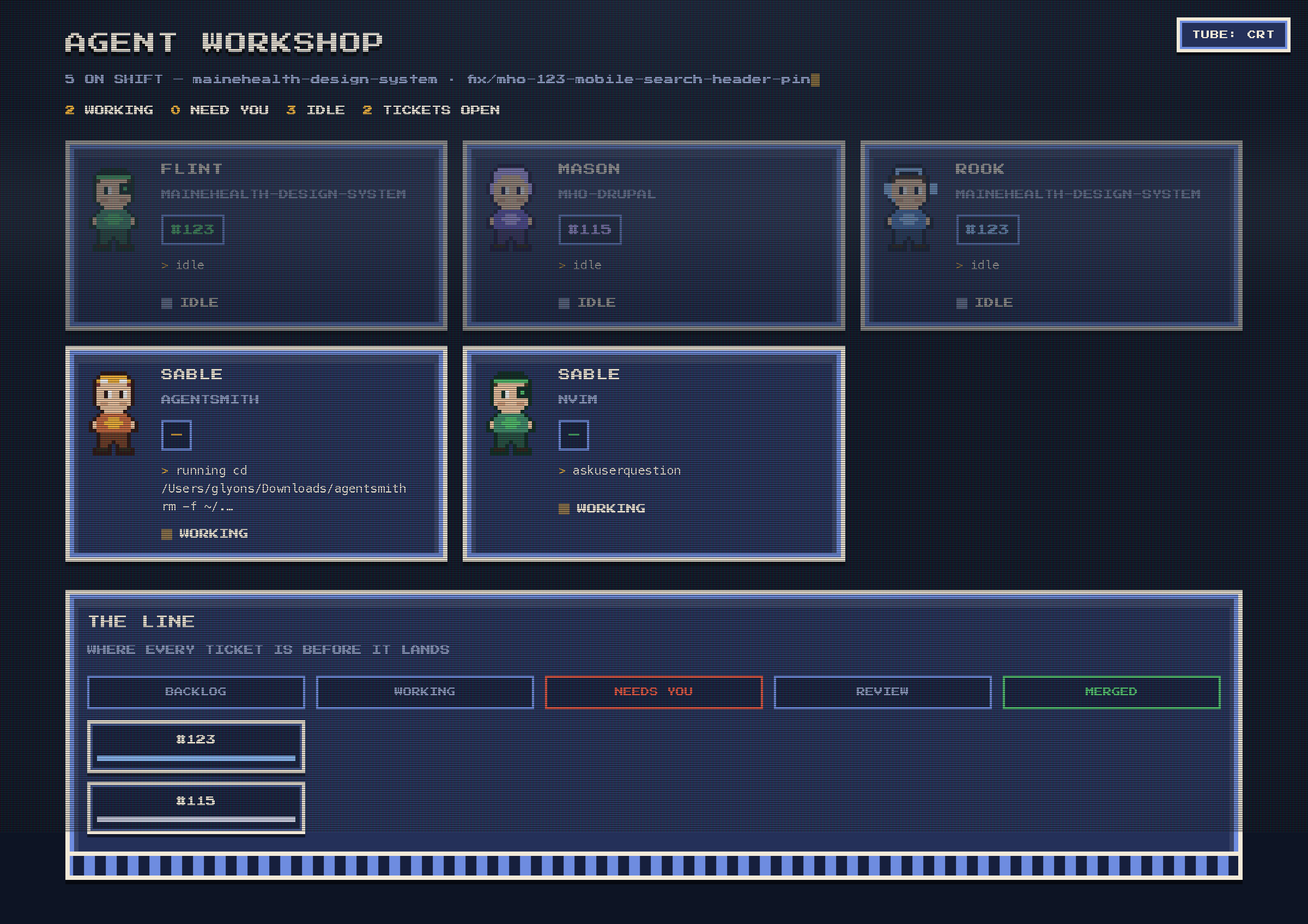
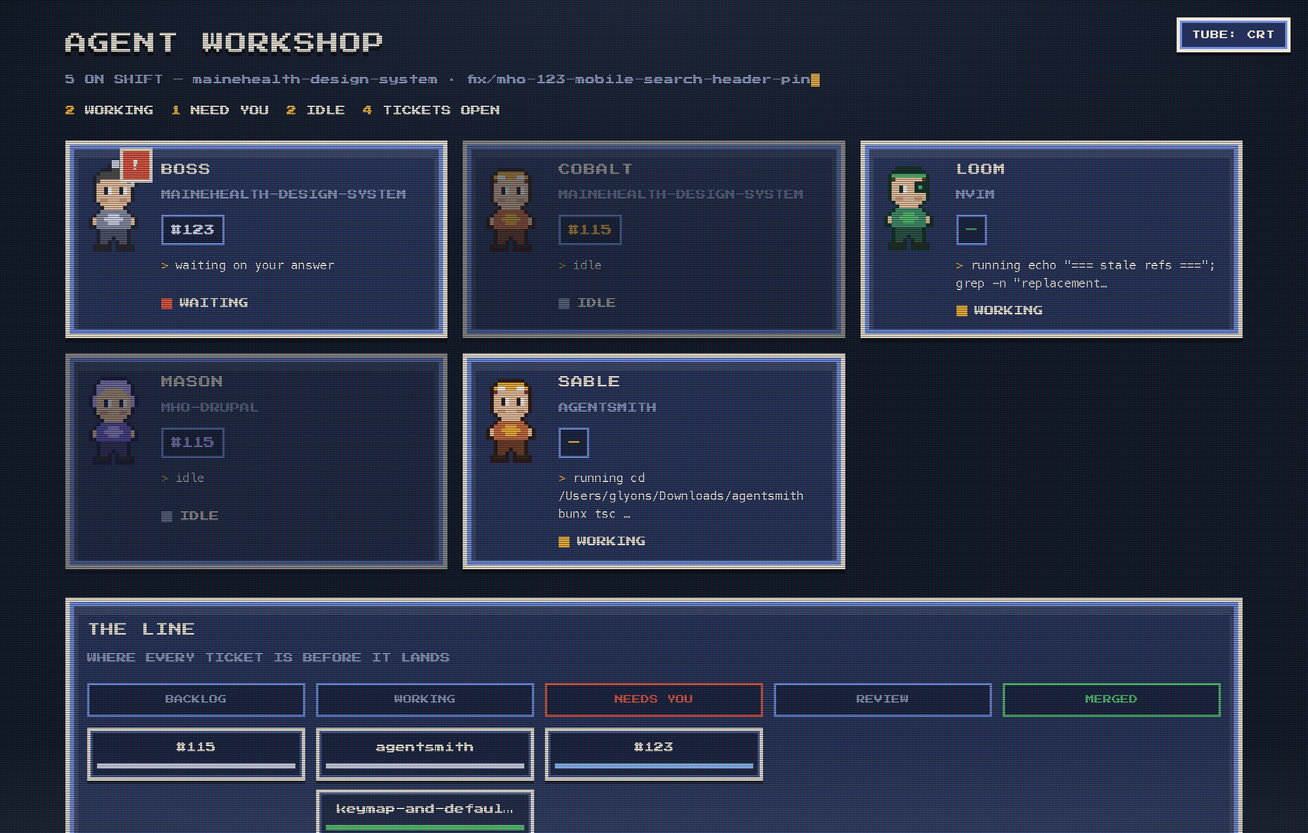
feat: click a card to jump to its Ghostty terminal; pause and rename agents
- ghostty.ts: focusSession() writes a one-shot title marker to the session's tty
  and focuses that exact Ghostty terminal (falls back to matching cwd); via
  Ghostty's AppleScript dictionary (no Accessibility permission needed).
  interruptSession() sends SIGINT to the session's pid (pause = interrupt the
  current turn, like Esc; session stays open).
- server: POST /action/{focus,pause,rename}; loadStatus with sessionId guard.
- ui: desks are clickable (focus); hover reveals rename (prompt) + pause (confirm)
  buttons; actions.ts posts to the server.
- overrides applied in readSnapshot so a rename persists across restarts.
- tests: overrides store.

Notes: precise focus + pause need the pid/tty the hooks capture; scanner-only
sessions fall back to cwd-level focus and can't be paused (the endpoint says so).

diff --git a/src/ghostty.ts b/src/ghostty.ts
@@ -1,0 +1,78 @@
+// OS actions on a real Claude session: focus its Ghostty terminal, or interrupt
+// it. macOS + Ghostty specific (uses Ghostty's AppleScript dictionary, which
+// works without Accessibility permission). Best-effort: every call resolves to a
+// {ok, error?} result and never throws.
+import { writeFile } from "node:fs/promises";
+import type { AgentStatus } from "./schema";
+
+export type ActionResult = { ok: boolean; error?: string };
+
+function delay(ms: number): Promise<void> {
+  return new Promise((r) => setTimeout(r, ms));
+}
+
+async function osa(script: string): Promise<string> {
+  const p = Bun.spawn(["osascript", "-e", script], { stdout: "pipe", stderr: "pipe" });
+  const out = await new Response(p.stdout).text();
+  await p.exited;
+  return out.trim();
+}
+
+// AppleScript string literal, escaping backslash and quote.
+function asStr(s: string): string {
+  return '"' + s.replace(/\\/g, "\\\\").replace(/"/g, '\\"') + '"';
+}
+
+function focusScript(match: string): string {
+  return `tell application "Ghostty"
+    repeat with w in windows
+      repeat with t in tabs of w
+        repeat with term in terminals of t
+          if ${match} then
+            focus term
+            activate
+            return "ok"
+          end if
+        end repeat
+      end repeat
+    end repeat
+    return "no"
+  end tell`;
+}
+
+let markerSeq = 0;
+function newMarker(): string {
+  markerSeq = (markerSeq + 1) % 1e6;
+  return `AWF-${Date.now().toString(36)}-${markerSeq.toString(36)}`;
+}
+
+/** Focus the exact terminal for a session: write a one-shot title marker to its
+ *  tty and match on it (precise). Falls back to matching the working directory. */
+export async function focusSession(status: Pick<AgentStatus, "tty" | "cwd">): Promise<ActionResult> {
+  if (status.tty) {
+    const marker = newMarker();
+    try {
+      await writeFile(status.tty, `\x1b]2;${marker}\x07`); // OSC 2 = set window title
+      await delay(70);
+      const out = await osa(focusScript(`(name of term) contains ${asStr(marker)}`));
+      if (out === "ok") return { ok: true };
+    } catch { /* fall through to cwd match */ }
+  }
+  if (status.cwd) {
+    const out = await osa(focusScript(`(working directory of term) is ${asStr(status.cwd)}`));
+    if (out === "ok") return { ok: true };
+  }
+  return { ok: false, error: "could not find the terminal (is it still open?)" };
+}
+
+/** Interrupt the session's current turn — equivalent to pressing Esc/Ctrl-C once.
+ *  The session stays alive and waiting; resume by typing in it. */
+export function interruptSession(status: Pick<AgentStatus, "pid">): ActionResult {
+  if (!status.pid) return { ok: false, error: "no pid — run `bun run install-hooks` to enable pausing" };
+  try {
+    process.kill(status.pid, "SIGINT");
+    return { ok: true };
+  } catch (e) {
+    return { ok: false, error: `could not signal pid ${status.pid}: ${String(e)}` };
+  }
+}

diff --git a/src/server.ts b/src/server.ts
@@ -4,7 +4,19 @@ import { parseStatus, type AgentStatus } from "./schema";
 import { buildSnapshot, type Snapshot } from "./lib/snapshot";
 import { ensureStatusDir, statusDir } from "./lib/paths";
 import { scanLiveSessions } from "./scan";
-import { readOverrides, applyOverrides } from "./lib/overrides";
+import { readOverrides, applyOverrides, setNameOverride } from "./lib/overrides";
+import { focusSession, interruptSession } from "./ghostty";
+
+function json(body: unknown, status = 200): Response {
+  return new Response(JSON.stringify(body), { status, headers: { "content-type": "application/json" } });
+}
+
+function loadStatus(dir: string, sessionId: string): AgentStatus | null {
+  // sessionId comes from the client; keep it to a single path segment
+  if (!/^[A-Za-z0-9._-]+$/.test(sessionId)) return null;
+  try { return parseStatus(JSON.parse(readFileSync(join(dir, `${sessionId}.json`), "utf8"))); }
+  catch { return null; }
+}
 
 export function readSnapshot(dir: string, now: number): Snapshot {
   const agents: AgentStatus[] = [];
@@ -76,6 +88,24 @@ export function makeServer(port: number, opts: { scan?: boolean; scanIntervalMs?
           "cache-control": "no-cache",
         }});
       }
+      // commands: act on a real session
+      if (req.method === "POST" && url.pathname.startsWith("/action/")) {
+        const action = url.pathname.slice("/action/".length);
+        let body: { sessionId?: string; name?: string };
+        try { body = await req.json(); } catch { return json({ ok: false, error: "bad body" }, 400); }
+        const status = body.sessionId ? loadStatus(dir, body.sessionId) : null;
+        if (action === "rename") {
+          if (!body.sessionId) return json({ ok: false, error: "no sessionId" }, 400);
+          setNameOverride(dir, body.sessionId, body.name ?? null);
+          push();
+          return json({ ok: true });
+        }
+        if (!status) return json({ ok: false, error: "unknown session" }, 404);
+        if (action === "focus") return json(await focusSession(status));
+        if (action === "pause") return json(interruptSession(status));
+        return json({ ok: false, error: "unknown action" }, 404);
+      }
+
       // static
       const path = url.pathname === "/" ? "/index.html" : url.pathname;
       const file = Bun.file(join(import.meta.dir, "..", "dist", path));

diff --git a/src/ui/Crew.tsx b/src/ui/Crew.tsx
@@ -1,14 +1,31 @@
+import type { MouseEvent } from "react";
 import type { AgentStatus } from "../schema";
 import { Sprite } from "./Sprite";
 import { paletteFor } from "./sprite-data";
+import { focusSession, pauseSession, renameSession } from "./actions";
 
 export function Crew({ agents }: { agents: AgentStatus[] }) {
   return (
     <main className="crew">
       {agents.map((a) => {
         const { palette } = paletteFor(a.sessionId, a.role);
+        const stop = (e: MouseEvent) => e.stopPropagation();
         return (
-          <article key={a.sessionId} className={`win desk is-${a.state}`}>
+          <article
+            key={a.sessionId}
+            className={`win desk is-${a.state}`}
+            role="button"
+            tabIndex={0}
+            title="Click to jump to this terminal in Ghostty"
+            onClick={() => focusSession(a.sessionId)}
+            onKeyDown={(e) => { if (e.key === "Enter") focusSession(a.sessionId); }}
+          >
+            <div className="desk-actions" onClick={stop}>
+              <button className="deskbtn" title="Rename this agent"
+                onClick={() => renameSession(a.sessionId, a.name)}>✎</button>
+              <button className="deskbtn" title="Pause (interrupt) this agent"
+                onClick={() => pauseSession(a.sessionId, a.name)}>⏸</button>
+            </div>
             <div className="sprite-wrap">
               <Sprite sessionId={a.sessionId} role={a.role} state={a.state} />
               {a.state === "waiting" && <div className="pix bubble">!</div>}

diff --git a/tests/overrides.test.ts b/tests/overrides.test.ts
@@ -1,0 +1,34 @@
+import { test, expect } from "bun:test";
+import { readOverrides, setNameOverride, applyOverrides } from "../src/lib/overrides";
+import type { AgentStatus } from "../src/schema";
+import { mkdirSync, rmSync } from "node:fs";
+
+const dir = "/tmp/aw-overrides-test";
+function reset() { rmSync(dir, { recursive: true, force: true }); mkdirSync(dir, { recursive: true }); }
+
+const A = (o: Partial<AgentStatus>): AgentStatus => ({
+  sessionId: "s", name: "NOVA", role: "r", ticket: null, state: "idle",
+  doing: "x", cwd: "/", branch: null, updatedAt: 0, ...o,
+});
+
+test("set, read, and apply a name override", () => {
+  reset();
+  expect(readOverrides(dir)).toEqual({});
+  setNameOverride(dir, "sess1", "Captain");
+  expect(readOverrides(dir)).toEqual({ sess1: { name: "Captain" } });
+  const applied = applyOverrides([A({ sessionId: "sess1", name: "NOVA" }), A({ sessionId: "sess2", name: "VOLT" })], readOverrides(dir));
+  expect(applied.find((a) => a.sessionId === "sess1")!.name).toBe("Captain");
+  expect(applied.find((a) => a.sessionId === "sess2")!.name).toBe("VOLT");
+});
+
+test("clearing a name override removes it", () => {
+  reset();
+  setNameOverride(dir, "sess1", "Captain");
+  setNameOverride(dir, "sess1", "");
+  expect(readOverrides(dir).sess1).toBeUndefined();
+});
+
+test("readOverrides tolerates a missing/corrupt file", () => {
+  reset();
+  expect(readOverrides(dir)).toEqual({});
+});

diff --git a/src/ui/actions.ts b/src/ui/actions.ts
@@ -1,0 +1,35 @@
+// Send a command to the server about a real session.
+type Result = { ok: boolean; error?: string };
+
+async function post(action: string, body: object): Promise<Result> {
+  try {
+    const res = await fetch(`/action/${action}`, {
+      method: "POST",
+      headers: { "content-type": "application/json" },
+      body: JSON.stringify(body),
+    });
+    return (await res.json()) as Result;
+  } catch (e) {
+    return { ok: false, error: String(e) };
+  }
+}
+
+async function act(action: string, body: object): Promise<void> {
+  const r = await post(action, body);
+  if (!r.ok) alert(r.error ?? `${action} failed`);
+}
+
+export function focusSession(sessionId: string): void {
+  void act("focus", { sessionId });
+}
+
+export function pauseSession(sessionId: string, name: string): void {
+  if (!confirm(`Pause ${name}? This interrupts its current turn (like pressing Esc). It stays open and you can resume by typing in it.`)) return;
+  void act("pause", { sessionId });
+}
+
+export function renameSession(sessionId: string, current: string): void {
+  const name = prompt("Rename this agent:", current);
+  if (name === null) return; // cancelled
+  void act("rename", { sessionId, name });
+}

diff --git a/src/ui/styles.css b/src/ui/styles.css
@@ -187,3 +187,12 @@
 /* React sprite bob: mock animated .desk.is-working .sprite via drawCrew();
    our Sprite component sets this class directly when state==='working'. */
 .sprite.is-bobbing{animation:bob .5s steps(2) infinite}
+
+/* interactive desks: click to focus its Ghostty terminal */
+.desk{position:relative;cursor:pointer}
+.desk:hover{box-shadow:inset 0 0 0 var(--px) var(--gold),inset 0 var(--px) 0 calc(var(--px)*2) rgba(255,255,255,.10),0 var(--px) 0 0 rgba(0,0,0,.55)}
+.desk:focus-visible{outline:3px solid var(--gold);outline-offset:2px}
+.desk-actions{position:absolute;top:6px;right:6px;display:flex;gap:5px;opacity:0;transition:opacity .1s;z-index:2}
+.desk:hover .desk-actions,.desk:focus-within .desk-actions{opacity:1}
+.deskbtn{font-family:ui-monospace,Menlo,monospace;font-size:12px;background:var(--box-lo);color:var(--bone);border:2px solid var(--bevel);cursor:pointer;padding:2px 6px;line-height:1.2}
+.deskbtn:hover{color:var(--gold);border-color:var(--gold)}
